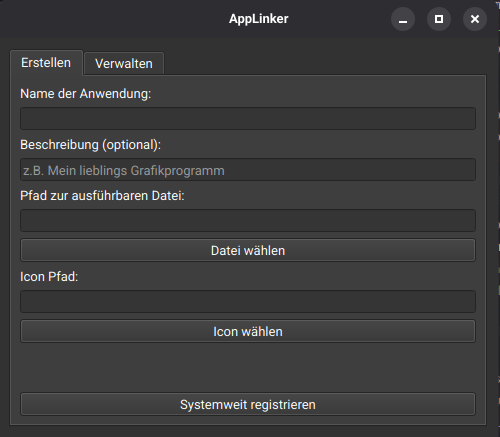
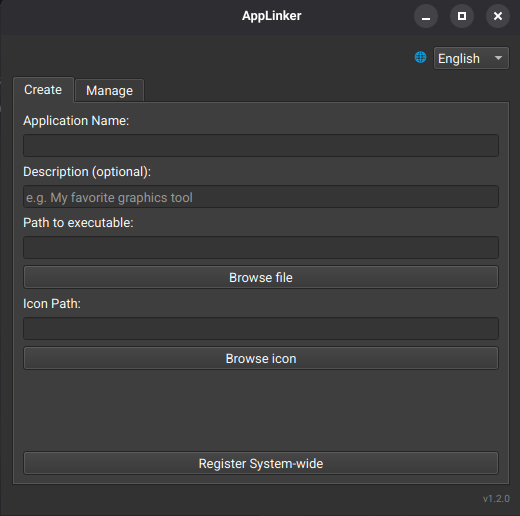
feat: v1.3.0 - Internationalization & Persistence
- Added i18n system with English and German support
- Added manual language switcher (QComboBox)
- Implemented persistent settings via ~/.config/applinker/config.json
- Refactored UI for dynamic retranslation without restart

diff --git a/ui/maingui.py b/ui/maingui.py
@@ -1,52 +1,72 @@
-import os
-from PyQt6.QtGui import QIcon
+import locale
 from PyQt6.QtWidgets import (QWidget, QVBoxLayout, QHBoxLayout, QPushButton,
-                             QLineEdit, QLabel, QTabWidget, QListWidget)
+                             QLineEdit, QLabel, QTabWidget, QListWidget, QComboBox)
+from core.i18n import TRANSLATIONS
 
 
 class AppLinkerGui(QWidget):
     def __init__(self):
         super().__init__()
+
+        # Initialer Sprach-Check
+        try:
+            self.lang_code = locale.getdefaultlocale()[0][:2]
+        except:
+            self.lang_code = 'en'
+
+        self.texts = TRANSLATIONS.get(self.lang_code, TRANSLATIONS['en'])
+
         self.setWindowTitle('AppLinker')
-        self.setMinimumWidth(500)
-        self.setMinimumHeight(400)
+        self.setMinimumWidth(520)
+        self.setMinimumHeight(480)
 
-        base_dir = os.path.dirname(os.path.dirname(os.path.abspath(__file__)))
-        icon_path = os.path.join(base_dir, 'icons', 'AppLinker_icon.png')
-
-        if os.path.exists(icon_path):
-            self.setWindowIcon(QIcon(icon_path))
-
-        # Hauptlayout mit Tabs
         self.main_layout = QVBoxLayout()
+
+        # --- TOP BAR (Sprachumschalter) ---
+        top_bar = QHBoxLayout()
+        self.combo_lang = QComboBox()
+        self.combo_lang.addItems(['Deutsch', 'English'])
+        self.combo_lang.setCurrentIndex(0 if self.lang_code == 'de' else 1)
+
+        top_bar.addStretch()
+        top_bar.addWidget(QLabel("🌐"))
+        top_bar.addWidget(self.combo_lang)
+        self.main_layout.addLayout(top_bar)
+
         self.tabs = QTabWidget()
 
         # --- TAB 1: ERSTELLEN ---
         self.tab_create = QWidget()
         create_layout = QVBoxLayout()
 
-        create_layout.addWidget(QLabel('Name der Anwendung:'))
+        self.lbl_name = QLabel(self.texts['lbl_name'])
         self.name_input = QLineEdit()
-        create_layout.addWidget(self.name_input)
 
-        create_layout.addWidget(QLabel('Beschreibung (optional):'))
+        self.lbl_desc = QLabel(self.texts['lbl_desc'])
         self.desc_input = QLineEdit()
-        self.desc_input.setPlaceholderText('z.B. Mein lieblings Grafikprogramm')
-        create_layout.addWidget(self.desc_input)
+        self.desc_input.setPlaceholderText(self.texts['ph_desc'])
 
-        create_layout.addWidget(QLabel('Pfad zur ausführbaren Datei:'))
+        self.lbl_path = QLabel(self.texts['lbl_path'])
         self.path_input = QLineEdit()
-        self.btn_browse_app = QPushButton('Datei wählen')
+        self.btn_browse_app = QPushButton(self.texts['btn_browse'])
+
+        self.lbl_icon = QLabel(self.texts['lbl_icon'])
+        self.icon_input = QLineEdit()
+        self.btn_browse_icon = QPushButton(self.texts['btn_icon'])
+
+        self.btn_create = QPushButton(self.texts['btn_register'])
+
+        # Widgets hinzufügen
+        create_layout.addWidget(self.lbl_name)
+        create_layout.addWidget(self.name_input)
+        create_layout.addWidget(self.lbl_desc)
+        create_layout.addWidget(self.desc_input)
+        create_layout.addWidget(self.lbl_path)
         create_layout.addWidget(self.path_input)
         create_layout.addWidget(self.btn_browse_app)
-
-        create_layout.addWidget(QLabel('Icon Pfad:'))
-        self.icon_input = QLineEdit()
-        self.btn_browse_icon = QPushButton('Icon wählen')
+        create_layout.addWidget(self.lbl_icon)
         create_layout.addWidget(self.icon_input)
         create_layout.addWidget(self.btn_browse_icon)
-
-        self.btn_create = QPushButton('Systemweit registrieren')
         create_layout.addStretch()
         create_layout.addWidget(self.btn_create)
         self.tab_create.setLayout(create_layout)
@@ -55,35 +75,33 @@ class AppLinkerGui(QWidget):
         self.tab_manage = QWidget()
         manage_layout = QVBoxLayout()
 
-        manage_layout.addWidget(QLabel('Erstellte Verknüpfungen:'))
+        self.lbl_list = QLabel(self.texts['lbl_list'])
         self.list_apps = QListWidget()
-        manage_layout.addWidget(self.list_apps)
 
         button_layout = QHBoxLayout()
-        self.btn_refresh = QPushButton('Liste aktualisieren')
-        self.btn_delete = QPushButton('Ausgewählte löschen')
+        self.btn_refresh = QPushButton(self.texts['btn_refresh'])
+        self.btn_delete = QPushButton(self.texts['btn_delete'])
         self.btn_delete.setStyleSheet("background-color: #c0392b; color: white;")
-
         button_layout.addWidget(self.btn_refresh)
         button_layout.addWidget(self.btn_delete)
-        manage_layout.addLayout(button_layout)
 
+        manage_layout.addWidget(self.lbl_list)
+        manage_layout.addWidget(self.list_apps)
+        manage_layout.addLayout(button_layout)
         self.tab_manage.setLayout(manage_layout)
 
         # Tabs hinzufügen
-        self.tabs.addTab(self.tab_create, "Erstellen")
-        self.tabs.addTab(self.tab_manage, "Verwalten")
+        self.tabs.addTab(self.tab_create, self.texts['tab_create'])
+        self.tabs.addTab(self.tab_manage, self.texts['tab_manage'])
 
         self.main_layout.addWidget(self.tabs)
-        self.setLayout(self.main_layout)
 
         # --- STATUSBAR ---
         self.status_layout = QHBoxLayout()
-        self.version_label = QLabel('v1.2.0')
+        self.version_label = QLabel('v1.3.0')
         self.version_label.setStyleSheet("color: gray; font-size: 10px;")
-
         self.status_layout.addStretch()
         self.status_layout.addWidget(self.version_label)
-
         self.main_layout.addLayout(self.status_layout)
+
         self.setLayout(self.main_layout)

diff --git a/core/main.py b/core/main.py
@@ -1,18 +1,19 @@
-import subprocess
+import locale
 import sys
 import os
-
 from PyQt6.QtCore import Qt
 from PyQt6.QtWidgets import QApplication, QFileDialog, QMessageBox, QListWidgetItem
+from i18n import TRANSLATIONS
 
 sys.path.append(os.path.abspath(os.path.join(os.path.dirname(__file__), '..')))
 
 from ui.maingui import AppLinkerGui
-from logic import create_desktop_file, get_installed_apps, delete_desktop_file
+from logic import create_desktop_file, get_installed_apps, delete_desktop_file, load_config, save_config
 import ctypes
 from PyQt6.QtGui import QIcon
 
-__version__ = "1.2.0"
+
+__version__ = "1.3.0"
 
 try:
     myappid = 'AppLinker.appimage.linker.v1'
@@ -22,8 +23,24 @@ except AttributeError:
 
 class MainWindow(AppLinkerGui):
     def __init__(self):
+
+        self.config = load_config()
+
+        if self.config.get("language"):
+            self.lang_code = self.config["language"]
+        else:
+            try:
+                self.lang_code = locale.getdefaultlocale()[0][:2]
+            except:
+                self.lang_code = 'en'
+
         super().__init__()
 
+        self.texts = TRANSLATIONS.get(self.lang_code, TRANSLATIONS['en'])
+        self.retranslate_ui()
+        self.combo_lang.setCurrentIndex(0 if self.lang_code == 'de' else 1)
+
+        self.combo_lang.currentIndexChanged.connect(self.change_language)
         self.version_label.setText(f"v{__version__}")
 
         self.btn_browse_app.clicked.connect(self.select_app)
@@ -33,6 +50,37 @@ class MainWindow(AppLinkerGui):
         self.btn_delete.clicked.connect(self.delete_selected_app)
 
         self.refresh_app_list()
+
+    def change_language(self):
+        new_lang = 'de' if self.combo_lang.currentIndex() == 0 else 'en'
+        self.lang_code = new_lang
+        self.texts = TRANSLATIONS[new_lang]
+
+        self.config["language"] = new_lang
+        save_config(self.config)
+
+        self.retranslate_ui()
+
+    def retranslate_ui(self):
+        """Aktualisiert alle Texte in der UI basierend auf self.texts"""
+        # Fenster & Tabs
+        self.tabs.setTabText(0, self.texts['tab_create'])
+        self.tabs.setTabText(1, self.texts['tab_manage'])
+
+        # Erstellen Tab
+        self.lbl_name.setText(self.texts['lbl_name'])
+        self.lbl_desc.setText(self.texts['lbl_desc'])
+        self.desc_input.setPlaceholderText(self.texts['ph_desc'])
+        self.lbl_path.setText(self.texts['lbl_path'])
+        self.btn_browse_app.setText(self.texts['btn_browse'])
+        self.lbl_icon.setText(self.texts['lbl_icon'])
+        self.btn_browse_icon.setText(self.texts['btn_icon'])
+        self.btn_create.setText(self.texts['btn_register'])
+
+        # Verwalten Tab
+        self.lbl_list.setText(self.texts['lbl_list'])
+        self.btn_refresh.setText(self.texts['btn_refresh'])
+        self.btn_delete.setText(self.texts['btn_delete'])
 
     def refresh_app_list(self):
         self.list_apps.clear()
@@ -78,7 +126,7 @@ class MainWindow(AppLinkerGui):
         wm_class = app_name.lower().replace(" ", "-")
 
         self.btn_create.setEnabled(False)
-        self.btn_create.setText("Warte auf Autorisierung...")
+        self.btn_create.setText(self.texts['msg_wait'])
         QApplication.processEvents()
 
         success, msg = create_desktop_file(

diff --git a/core/i18n.py b/core/i18n.py
@@ -1,0 +1,34 @@
+TRANSLATIONS = {
+    'de': {
+        'tab_create': 'Erstellen',
+        'tab_manage': 'Verwalten',
+        'lbl_name': 'Name der Anwendung:',
+        'lbl_desc': 'Beschreibung (optional):',
+        'ph_desc': 'z.B. Mein lieblings Grafikprogramm',
+        'lbl_path': 'Pfad zur ausführbaren Datei:',
+        'btn_browse': 'Datei wählen',
+        'lbl_icon': 'Icon Pfad:',
+        'btn_icon': 'Icon wählen',
+        'btn_register': 'Systemweit registrieren',
+        'lbl_list': 'Erstellte Verknüpfungen:',
+        'btn_refresh': 'Liste aktualisieren',
+        'btn_delete': 'Ausgewählte löschen',
+        'msg_wait': 'Warte auf Autorisierung...'
+    },
+    'en': {
+        'tab_create': 'Create',
+        'tab_manage': 'Manage',
+        'lbl_name': 'Application Name:',
+        'lbl_desc': 'Description (optional):',
+        'ph_desc': 'e.g. My favorite graphics tool',
+        'lbl_path': 'Path to executable:',
+        'btn_browse': 'Browse file',
+        'lbl_icon': 'Icon Path:',
+        'btn_icon': 'Browse icon',
+        'btn_register': 'Register System-wide',
+        'lbl_list': 'Created Shortcuts:',
+        'btn_refresh': 'Refresh List',
+        'btn_delete': 'Delete Selected',
+        'msg_wait': 'Waiting for authorization...'
+    }
+}

diff --git a/core/logic.py b/core/logic.py
@@ -1,5 +1,27 @@
 import os
 import subprocess
+import json
+
+CONFIG_PATH = os.path.expanduser("~/.config/applinker/config.json")
+
+def load_config():
+    """Lädt die Konfiguration oder gibt Standardwerte zurück."""
+    if os.path.exists(CONFIG_PATH):
+        try:
+            with open(CONFIG_PATH, 'r') as f:
+                return json.load(f)
+        except:
+            pass
+    return {"language": None}
+
+def save_config(config_data):
+    """Speichert die Konfiguration im Home-Verzeichnis."""
+    os.makedirs(os.path.dirname(CONFIG_PATH), exist_ok=True)
+    try:
+        with open(CONFIG_PATH, 'w') as f:
+            json.dump(config_data, f, indent=4)
+    except Exception as e:
+        print(f"Fehler beim Speichern der Config: {e}")
 
 def create_desktop_file(name, exec_path, icon_path, description, wm_class, categories="Utility;"):
     file_id = name.lower().replace(' ', '_')
